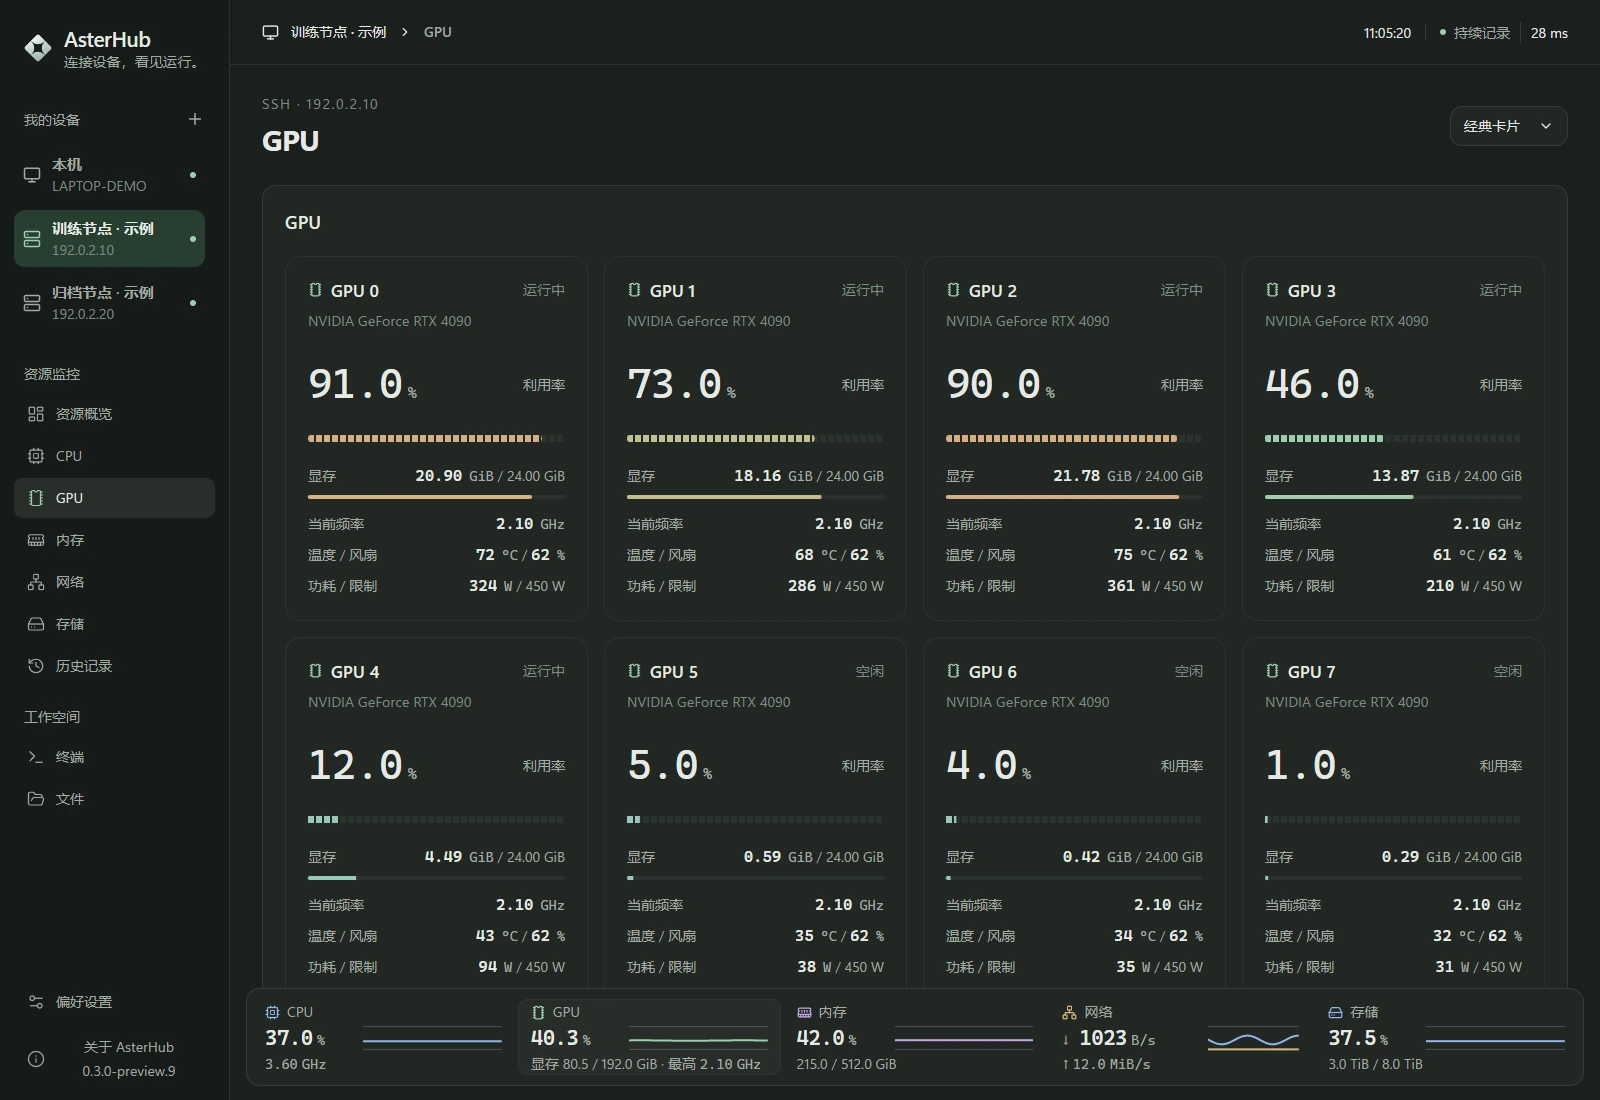
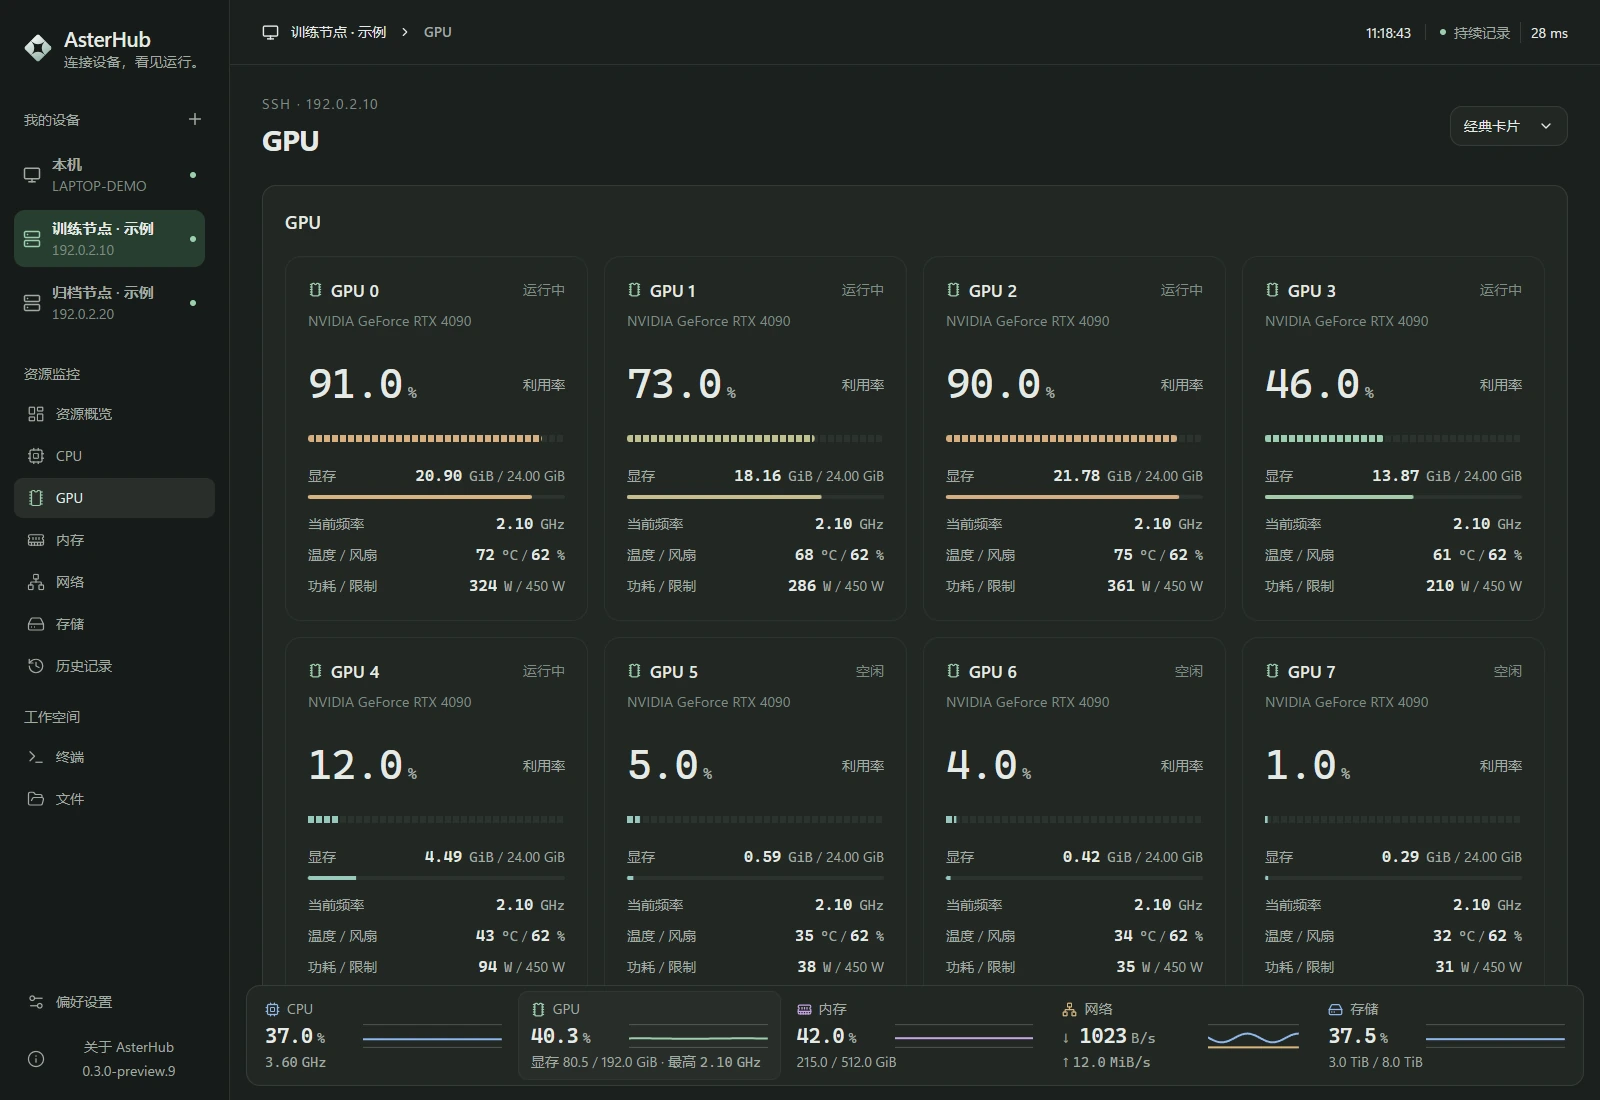
Keep enlarged footer readings visible in narrow windows

Changed region(s): [[0.1562, 0.8964, 0.5625, 0.9891], [0.75, 0.8964, 0.9688, 0.9891], [0.5625, 0.8964, 0.7188, 0.9891]]

diff --git a/desktop-preview/web/src/native/readability-preview10.css b/desktop-preview/web/src/native/readability-preview10.css
@@ -81,3 +81,9 @@
 :root{--dialog-action-gap:12px}
 .dialog-actions{gap:var(--dialog-action-gap)}
 .dialog-actions .button{min-height:40px}
+/* The strip follows its actual content height; enlarged labels must not be
+   centered and clipped inside the old 65px metric buttons. */
+.native-workbench.preview5-workbench .resource-footer.preview5-resource-footer .footer-metric{height:auto;min-height:0;align-self:stretch;justify-content:flex-start}
+.native-workbench.preview5-workbench .resource-footer.preview5-resource-footer .footer-metric-heading,
+.native-workbench.preview5-workbench .resource-footer.preview5-resource-footer .footer-reading-row,
+.native-workbench.preview5-workbench .resource-footer.preview5-resource-footer .footer-aux{flex-shrink:0}

diff --git a/CHANGELOG.md b/CHANGELOG.md
@@ -2,9 +2,11 @@
 
 
 
+
 ## 0.3.0-preview.11 · 2026-11-02
 
 - 近期更新集中展示最近三个版本，修复说明与记录数量不一致的问题。
+- 修复窄窗口下底部资源栏的标题和容量文字被裁切的问题。
 - 包含 preview.10 的字体、设备排序、表格列宽、GPU 排版、底部曲线和双端文件传输改进。
 
 ## 0.3.0-preview.10 · 2026-11-02

diff --git a/desktop-preview/CHANGELOG.md b/desktop-preview/CHANGELOG.md
@@ -3,6 +3,7 @@
 ## 0.3.0-preview.11 · 2026-11-02
 
 - 近期更新集中展示最近三个版本，修复说明与记录数量不一致的问题。
+- 修复窄窗口下底部资源栏的标题和容量文字被裁切的问题。
 - 包含 preview.10 的字体、设备排序、表格列宽、GPU 排版、底部曲线和双端文件传输改进。
 
 ## 0.3.0-preview.10 · 2026-11-02
